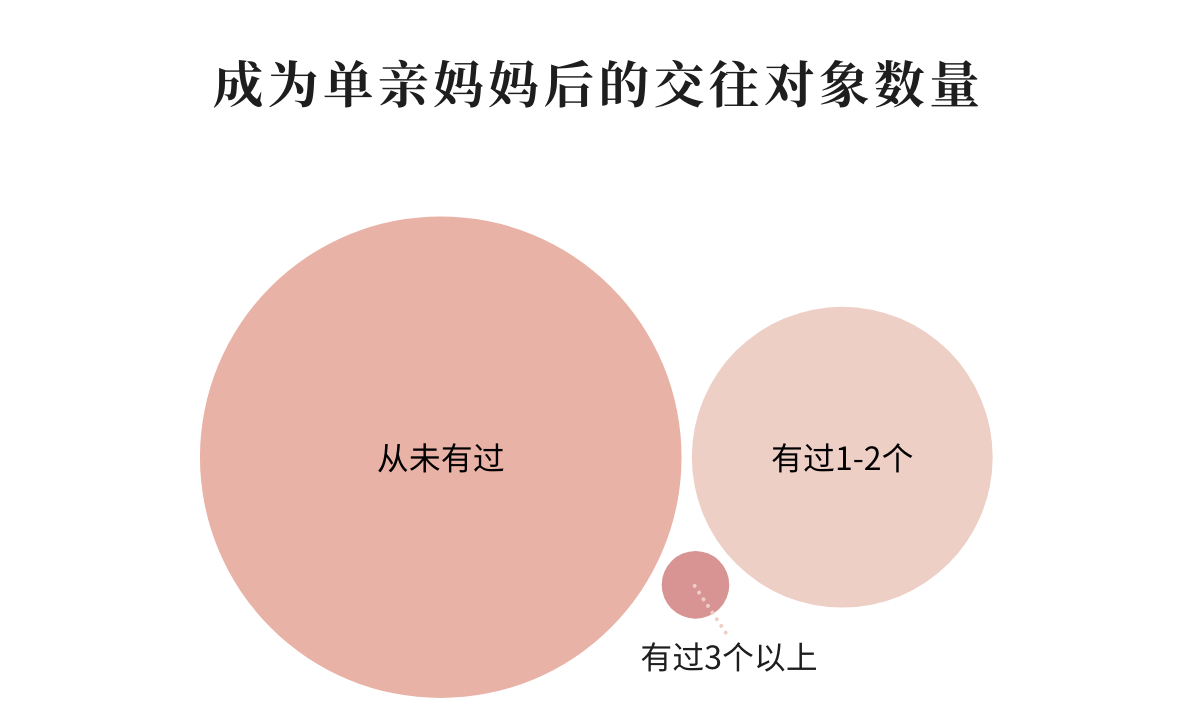
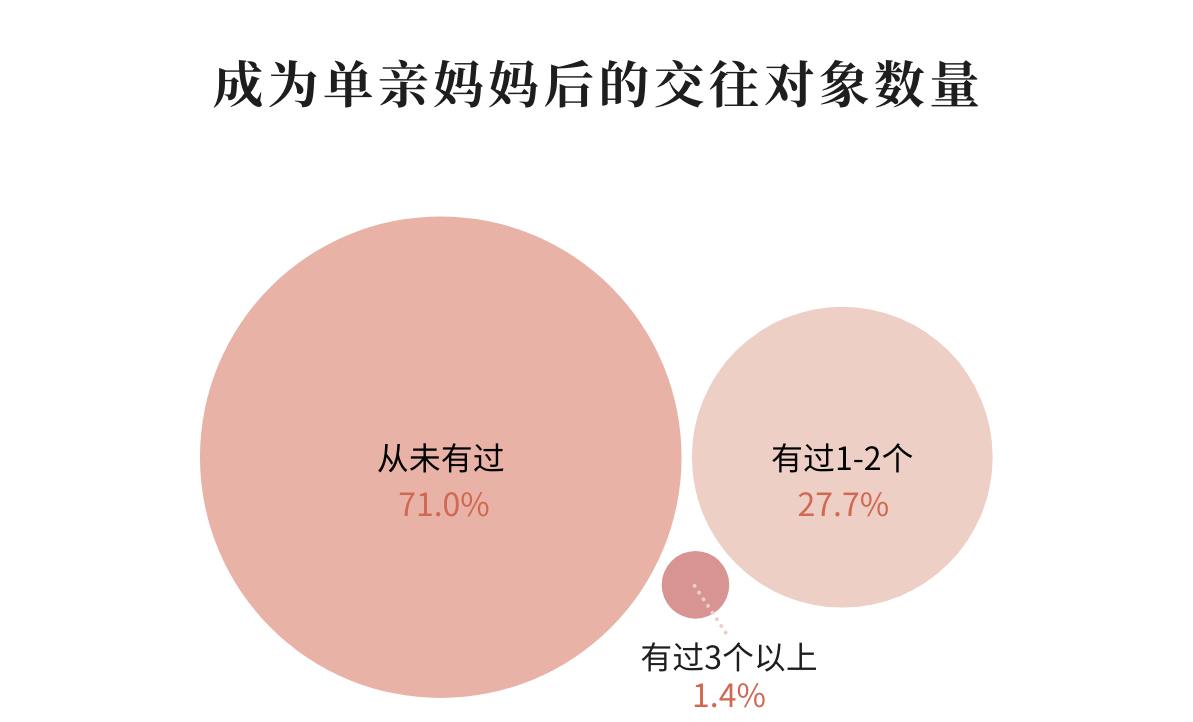
new file:   img/20c.png 	new file:   img/advice.png 	new file:   img/america-compare.png 	new file:   img/cost-compare.png 	new file:   img/exmoney.png 	modified:   img/meet.png 	new file:   img/mf-compare.png 	new file:   img/xiaohongshu.png 	modified:   index.html

diff --git a/index.html b/index.html
@@ -1,4 +1,5 @@
-<!DOCTYPE html><html lang="zh-cn">
+<!DOCTYPE html>
+<html lang="zh-cn">
 
 <head>
     <meta name="viewport" content="width=device-width, initial-scale=1.0">
@@ -525,19 +526,32 @@
                 <img src="img/devorce.png" alt="Image">
             </div>
             <p class="m-auto line-height-3">
-                &nbsp;&nbsp;&nbsp;&nbsp;&nbsp;&nbsp;&nbsp;&nbsp;在家庭形态日益多元化的社会变革中，单亲家庭迅速崛起，成为<mark class="highlight">增长最快</mark>的家庭类型之一，欧美与中国均不例外。
+                &nbsp;&nbsp;&nbsp;&nbsp;&nbsp;&nbsp;&nbsp;&nbsp;在家庭形态日益多元化的社会变革中，单亲家庭迅速崛起，成为<mark
+                    class="highlight">增长最快</mark>的家庭类型之一，欧美与中国均不例外。
             </p>
             <div class="row justify-content-center">
                 <div class="col-md-6 col-lg-8 m-b-50">
                     <img src="img/timeline-western.png"> <!-- 这是一张图片 -->
                 </div>
             </div>
+            <p class="small m-auto line-height-3 text-center"> <!-- 这是数据注释 -->
+                数据来源：Kotwal, N., & Prabhakar, B. (2009). Problems faced by single mothers. Journal of Social
+                Sciences, 21(3), 197-204.
+            </p>
             <p class="m-auto line-height-3">
                 &nbsp;&nbsp;&nbsp;&nbsp;&nbsp;&nbsp;&nbsp;&nbsp;针对不同年代单亲家庭成因的研究，国外学者早有探讨，并梳理了各年代单亲母亲的变化趋势。随着时间的推移，单亲家庭的形成原因经历了显著变化：从20世纪中叶因丧偶导致的单亲，到20世纪70年代和80年代因离婚率上升形成的单亲，再到2000年代因未婚生育导致的单亲家庭数量不断增加。
             </p>
             <span class="d-flex justify-content-center split"></span> <!-- 这是分割线 -->
             <p class="m-auto line-height-3">
                 &nbsp;&nbsp;&nbsp;&nbsp;&nbsp;&nbsp;&nbsp;&nbsp;而在国内，随着时间的推移，单亲家庭的形成原因和结构也在不断变化。
+            </p>
+            <div class="row justify-content-center" style="padding-top: 20px;">
+                <div class="col-md-6 col-lg-6 m-b-50">
+                    <img src="img/20c.png"> <!-- 这是一张图片 -->
+                </div>
+            </div>
+            <p class="small m-auto line-height-3 text-center"> <!-- 这是数据注释 -->
+                数据来源：刘鸿雁,单亲家庭研究综述.人口研究.2005(02):45.
             </p>
             <p class="m-auto line-height-3">
                 &nbsp;&nbsp;&nbsp;&nbsp;&nbsp;&nbsp;&nbsp;&nbsp;上世纪中叶，除因工作等原因两地分居外，<mark
@@ -562,6 +576,9 @@
                     <img src="img/timeline-china.png"> <!-- 这是一张图片 -->
                 </div>
             </div>
+            <p class="small m-auto line-height-3 text-center"> <!-- 这是数据注释 -->
+                数据来源：育娲人口研究. (2022). 中国婚姻家庭报告 2022 版. 北京: 社会科学文献出版社.
+            </p>
             <p class="m-auto line-height-3">
                 &nbsp;&nbsp;&nbsp;&nbsp;&nbsp;&nbsp;&nbsp;&nbsp;2000年前后，离婚率较低，单亲母亲主要由丧偶和离婚女性组成，社会对离婚女性的接受度较低，导致离婚女性比例较少。
             </p>
@@ -761,6 +778,9 @@
                         <img src="img/meet.png"> <!-- 这是一张图片 -->
                     </div>
                 </div>
+                <p class="small m-auto line-height-3 text-center"> <!-- 这是数据注释 -->
+                    数据来源：中国婚姻家庭研究会,中国妇女发展基金会. (2019). 十城市单亲母亲生活状况及需求调研报告.
+                </p>
                 <p class="m-auto line-height-3">
                     &nbsp;&nbsp;&nbsp;&nbsp;&nbsp;&nbsp;&nbsp;&nbsp;基于《十城市单亲母亲生活状况及需求调研报告》，超七成的单亲母亲在离婚后没有情感生活，有过1-2次情感交往经验的只有不到三成。并且，53.1%的单亲母亲在婚恋、工作等诸多方面觉察到来自他人异样的目光甚至不友好态度。
                 </p>
@@ -780,6 +800,14 @@
                 </div>
                 <p class="m-auto line-height-3">
                     &nbsp;&nbsp;&nbsp;&nbsp;&nbsp;&nbsp;&nbsp;&nbsp;可是，单亲母亲似乎自古便被贴上各种污名化的标签，“二手货”“没人要”“带着小累赘”。
+                </p>
+                <div class="row justify-content-center" style="padding-top: 20px;">
+                    <div class="col-md-6 col-lg-8 m-b-50">
+                        <img src="img/mf-compare.png"> <!-- 这是一张图片 -->
+                    </div>
+                </div>
+                <p class="small m-auto line-height-3 text-center"> <!-- 这是数据注释 -->
+                    数据来源：中国婚姻家庭研究会,中国妇女发展基金会. (2019). 十城市单亲母亲生活状况及需求调研报告.
                 </p>
                 <p class="m-auto line-height-3">
                     &nbsp;&nbsp;&nbsp;&nbsp;&nbsp;&nbsp;&nbsp;&nbsp;没有人试图想过，“她”不一定是牺牲者，女性为了子女不一定需要牺牲自我；“她”也不一定是坚强者，面临着重重压力，不能把她们独自抚养的勇气视作自讨活该的奉献；“她”是单身母亲，也是女孩，也是员工，与千千万万的其他人拥有平等的灵魂，不应该被污名化。
@@ -827,7 +855,7 @@
             <div class="container pt-5">
                 <div class="comic-container"> <!-- 这是小标题 -->
                     <div class="dialogue comic-title">
-                        <p class="m-auto little-title">单亲母亲与单亲父亲群体经济差异</p>
+                        <p class="m-auto little-title">单亲母亲与单亲父亲群体差异</p>
                     </div>
                 </div>
                 <p class="m-auto line-height-3">
@@ -843,11 +871,26 @@
                 <p class="m-auto line-height-3">
                     &nbsp;&nbsp;&nbsp;&nbsp;&nbsp;&nbsp;&nbsp;&nbsp;国外针对这一方面已有相关研究，基于2020年美国的一篇研究表明，单亲母亲家庭的贫困率和收入不平等程度要显著高于单亲父亲家庭。
                 </p>
-                <p class="m-auto line-height-3">
-                    &nbsp;&nbsp;&nbsp;&nbsp;&nbsp;&nbsp;&nbsp;&nbsp;在美国，根据2018年皮尤研究中心对美国人口普查局数据的分析，大约有2400万，即所有18岁以下美国儿童的三分之一，与未婚父母生活在一起。81%的单亲家庭由母亲担任户主。
+                <div class="row justify-content-center">
+                    <div class="col-md-6 col-lg-8 m-b-50">
+                        <img src="img/america-compare.png"> <!-- 这是一张图片 -->
+                    </div>
+                </div>
+                <p class="small m-auto line-height-3 text-center"> <!-- 这是数据注释 -->
+                    数据说明：单亲家庭情况来源于2018年皮尤研究中心对美国人口普查局数据的分析。收入数据使用2011年和2013年美国“收入动态面板研究” (PSID)
+                    数据，共计1135个单亲家庭。<br>
+                    注：贫困状态根据应税收入除以贫困线计算，贫困线标准来自美国人口普查局。使用四个贫困水平分类: 危机(≤100%), 风险(>100%-150%),
+                    安全(>150%-200%), 和富裕(>200%)。<br>
+                    文献来源：Lu, Y. C., Walker, R., Richard, P., & Younis, M. (2020). Inequalities in poverty and income
+                    between single mothers and fathers. International journal of environmental research and public
+                    health, 17(1), 135.<br>
+                    Livingston, G., & Parker, K. (2018). The changing profile of unmarried parents. Pew Research Center.
                 </p>
                 <p class="m-auto line-height-3">
-                    &nbsp;&nbsp;&nbsp;&nbsp;&nbsp;&nbsp;&nbsp;&nbsp;每八个家庭中就有一个是单身母亲的户主。虽然美国只有10%的家庭生活在贫困中，但近40%的单身母亲家庭生活在贫困中。单亲母亲家庭生活在贫困中的可能性是双亲家庭的五倍。
+                    &nbsp;&nbsp;&nbsp;&nbsp;&nbsp;&nbsp;&nbsp;&nbsp;在美国，根据2018年皮尤研究中心对美人口普查局数据的分析，约有2400万，即所有18岁以下美国儿童的三分之一，与未婚父母生活在一起。81%的单亲家庭由母亲担任户主。
+                </p>
+                <p class="m-auto line-height-3">
+                    &nbsp;&nbsp;&nbsp;&nbsp;&nbsp;&nbsp;&nbsp;&nbsp;其中每八个家庭中就有一个单身母亲家庭。虽然美国只有10%的家庭处于贫困，但近40%的单身母亲家庭处于贫困。单亲母亲家庭生活在贫困中的可能性是双亲家庭的五倍。
                 </p>
                 <p class="m-auto line-height-3">
                     &nbsp;&nbsp;&nbsp;&nbsp;&nbsp;&nbsp;&nbsp;&nbsp;与此同时，“单身母亲”群体作为名义上的弱势群体中的一员，其收入显著低于单亲父亲，超32.6%的单亲母亲处于危机贫困状态，同时单亲母亲的应税收入显著低于单亲父亲的应税收入。
@@ -880,11 +923,10 @@
                 <p class="m-auto line-height-3">
                     &nbsp;&nbsp;&nbsp;&nbsp;&nbsp;&nbsp;&nbsp;&nbsp;在中国，单亲母亲群体面临的挑战同样显著且复杂。由于相关总体资料的缺失，我们只能从部分资料中窥见一斑。
                 </p>
-
-                    <div class="chart-center" id="money-chart"></div>
-                    <p class="small m-auto line-height-3 text-center"> <!-- 这是数据注释 -->
-                        数据来源：《十城市单亲母亲生活状况及需求调研报告》
-                    </p>
+                <div class="chart-center" id="money-chart"></div>
+                <p class="small m-auto line-height-3 text-center"> <!-- 这是数据注释 -->
+                    数据来源：中国婚姻家庭研究会,中国妇女发展基金会. (2019). 十城市单亲母亲生活状况及需求调研报告.
+                </p>
                 <p class="m-auto line-height-3">
                     &nbsp;&nbsp;&nbsp;&nbsp;&nbsp;&nbsp;&nbsp;&nbsp;根据《十城市单亲母亲生活状况及需求调研报告》的数据，34.3%的单亲母亲月收入在2000元及以下，29.2%在2001-4000元之间。月收入在4001-6000元的占25.4%，在6001-10000元的占17.8%，月收入超过10000元的仅占6.2%。
                 </p>
@@ -914,6 +956,17 @@
                 <p class="m-auto line-height-3">
                     &nbsp;&nbsp;&nbsp;&nbsp;&nbsp;&nbsp;&nbsp;&nbsp;但现实真的是这样的吗？
                 </p>
+                <div class="row justify-content-center" style="padding-top: 20px;">
+                    <div class="col-md-6 col-lg-8 m-b-50">
+                        <img src="img/exmoney.png"> <!-- 这是一张图片 -->
+                    </div>
+                </div>
+                <p class="small m-auto line-height-3 text-center"> <!-- 这是数据注释 -->
+                    数据来源：中国婚姻家庭研究会,中国妇女发展基金会. (2019). 十城市单亲母亲生活状况及需求调研报告.<br>
+                    陈雅馨. (2023). 在线社会支持对单亲母亲群体身份认同的影响研究 (硕士学位论文, 吉林大学).<br>
+                    中華展望. (2018, May). 專題 : 單親家庭狀況 母親多兼父職. 號角月報香港版. Retrieved June 1, 2024, from
+                    http://old.cchc-herald.org/hk/?page_id=25285
+                </p>
                 <p class="m-auto line-height-3">
                     &nbsp;&nbsp;&nbsp;&nbsp;&nbsp;&nbsp;&nbsp;&nbsp;《十城市单亲母亲生活状况及需求调研报告》中提出，近8成单亲母亲无法得到前任配偶足够的抚养费，面临阶段性或持续的经济压力。
                 </p>
@@ -940,6 +993,15 @@
                 <p class="m-auto line-height-3">
                     &nbsp;&nbsp;&nbsp;&nbsp;&nbsp;&nbsp;&nbsp;&nbsp;独自承担抚养孩子的经济责任，对于单亲母亲来说，无疑是一项艰巨的挑战。《十城市单亲母亲生活状况及需求调研报告》指出，大约46%的单亲母亲在照料孩子和维系亲子关系方面感到力不从心，认为自己对孩子有所亏欠。经济压力更是沉重，高达76.9%的单亲母亲每月在育儿上的支出超过其总收入的一半，而88.0%的人表示在支付育儿费用时感到困难。
                 </p>
+                <div class="row justify-content-center" style="padding-top: 20px;">
+                    <div class="col-md-6 col-lg-10 m-b-50">
+                        <img src="img/cost-compare.png"> <!-- 这是一张图片 -->
+                    </div>
+                </div>
+                <p class="small m-auto line-height-3 text-center"> <!-- 这是数据注释 -->
+                    数据来源：中国婚姻家庭研究会,中国妇女发展基金会. (2019). 十城市单亲母亲生活状况及需求调研报告.<br>
+                    育娲人口研究. (2022). 中国婚姻家庭报告 2022 版. 北京: 社会科学文献出版社.
+                </p>
                 <p class="m-auto line-height-3">
                     &nbsp;&nbsp;&nbsp;&nbsp;&nbsp;&nbsp;&nbsp;&nbsp;而基于相关报告，全国家庭养育0-17岁孩子的平均成本为53.8万元，而从出生到大学本科毕业的养育成本则高达约68万元。城乡差异也十分显著，城镇孩子的养育成本平均为66.7万元，而农村孩子则为36.5万元。
                 </p>
@@ -948,8 +1010,13 @@
                         <img src="img/raise-cost.png"> <!-- 这是一张图片 -->
                     </div>
                 </div>
+                <p class="small m-auto line-height-3 text-center"> <!-- 这是数据注释 -->
+                    数据注释：各国养育成本数据为养育孩子的成本相对于人均GDP的倍数<br>
+                    数据来源：张春泥, & 潘修明. (2022). 中国儿童家庭养育投入现状报告. In 苑立新 (Ed.), 中国儿童发展报告（2022）. 北京: 社会科学文献出版社.<br>
+                </p>
                 <p class="m-auto line-height-3">
-                    &nbsp;&nbsp;&nbsp;&nbsp;&nbsp;&nbsp;&nbsp;&nbsp;从国际视角来看，<mark class="highlight">中国养育孩子的成本相对于人均GDP的倍数几乎是全球最高的</mark>，达到6.3倍。相比之下，澳大利亚为2.08倍，法国为2.24倍，瑞典为2.91倍，德国为3.64倍，美国为4.11倍，日本为4.26倍，这也显示出中国家庭在养育孩子时所面临巨大的经济压力。
+                    &nbsp;&nbsp;&nbsp;&nbsp;&nbsp;&nbsp;&nbsp;&nbsp;从国际视角来看，<mark
+                        class="highlight">中国养育孩子的成本相对于人均GDP的倍数几乎是全球最高的</mark>，达到6.3倍。相比之下，澳大利亚为2.08倍，法国为2.24倍，瑞典为2.91倍，德国为3.64倍，美国为4.11倍，日本为4.26倍，这也显示出中国家庭在养育孩子时所面临巨大的经济压力。
                 </p>
                 <p class="m-auto line-height-3">
                     &nbsp;&nbsp;&nbsp;&nbsp;&nbsp;&nbsp;&nbsp;&nbsp;调查显示，单亲母亲为了保障孩子的成长，大部分在自己身上节约开支，而与孩子相关的娱乐、照料、医疗方面的支出则没有发生变化，甚至有一半的人在成为单亲母亲后加大了对孩子教育的投入。综合多篇论文的研究数据，在中国，每生一个孩子会导致女性工资率下降12%-17%，其中12%的下限是同一篇论文里的控制其他变量以后的估算。
@@ -1059,6 +1126,14 @@
                 <p class="m-auto line-height-3 font-songti">
                     &nbsp;&nbsp;&nbsp;&nbsp;同时，她们也倾尽所有将孩子抚养好。
                 </p>
+                <div class="row justify-content-center">
+                    <div class="col-md-6 col-lg-6 m-b-50">
+                        <img src="img/xiaohongshu.png"> <!-- 这是一张图片 -->
+                    </div>
+                </div>
+                <p class="small m-auto line-height-3 text-center"> <!-- 这是数据注释 -->
+                    数据说明：来源于小红书单亲妈妈相关内容搜索贴文结果，获取时间为2024年4-5月。（N=1334）
+                </p>
                 <p class="m-auto line-height-3 font-songti">
                     &nbsp;&nbsp;&nbsp;&nbsp;或许很多单身母亲默默隐忍着辛酸，
                 </p>
@@ -1121,18 +1196,11 @@
                 <p class="m-auto line-height-3 font-songti">
                     &nbsp;&nbsp;&nbsp;&nbsp;因此，我们提出以下倡议：
                 </p>
-                <p class="m-auto line-height-3 font-songti">
-                    &nbsp;&nbsp;&nbsp;&nbsp;· 设立专门法律法规，给予经济支持，尤其是在女方待业的情况下。
-                </p>
-                <p class="m-auto line-height-3 font-songti">
-                    &nbsp;&nbsp;&nbsp;&nbsp;· 医疗、教育、交通、饮食、住房、社会福利等方面，应给予单亲母亲及其孩子专门的支持与补助。
-                </p>
-                <p class="m-auto line-height-3 font-songti">
-                    &nbsp;&nbsp;&nbsp;&nbsp;· 成立官方的单亲母亲互助机构，成员不限于单亲母亲，任何愿意提供经验帮助的人都可以参与其中，为相互扶持打造一个平台。
-                </p>
-                <p class="m-auto line-height-3">
-                    &nbsp;&nbsp;&nbsp;&nbsp;&nbsp;&nbsp;&nbsp;&nbsp;此外，完善法律援助和心理健康支持对于单亲母亲的全面发展至关重要。政府应提供更多的法律援助，帮助她们解决离婚、抚养权和家庭暴力等问题，保护其合法权益。同时，通过社区活动和志愿服务，帮助单亲母亲建立社会支持网络，促进社会融入和心理健康。
-                </p>
+                <div class="row justify-content-center">
+                    <div class="col-md-6 col-lg-10 m-b-50">
+                        <img src="img/advice.png"> <!-- 这是一张图片 -->
+                    </div>
+                </div>
                 <span class="d-flex justify-content-center split"></span> <!-- 这是分割线 -->
                 <p class="m-auto line-height-3 font-songti-large">
                     “再见，女士！祝你永远明媚，和小天使一切安好！”
@@ -1245,4 +1313,5 @@
 <script src="data/main.js"></script>
 <script src="data/devorce-detail.js"></script>
 <script src="data/money.js"></script>
+
 </html>
